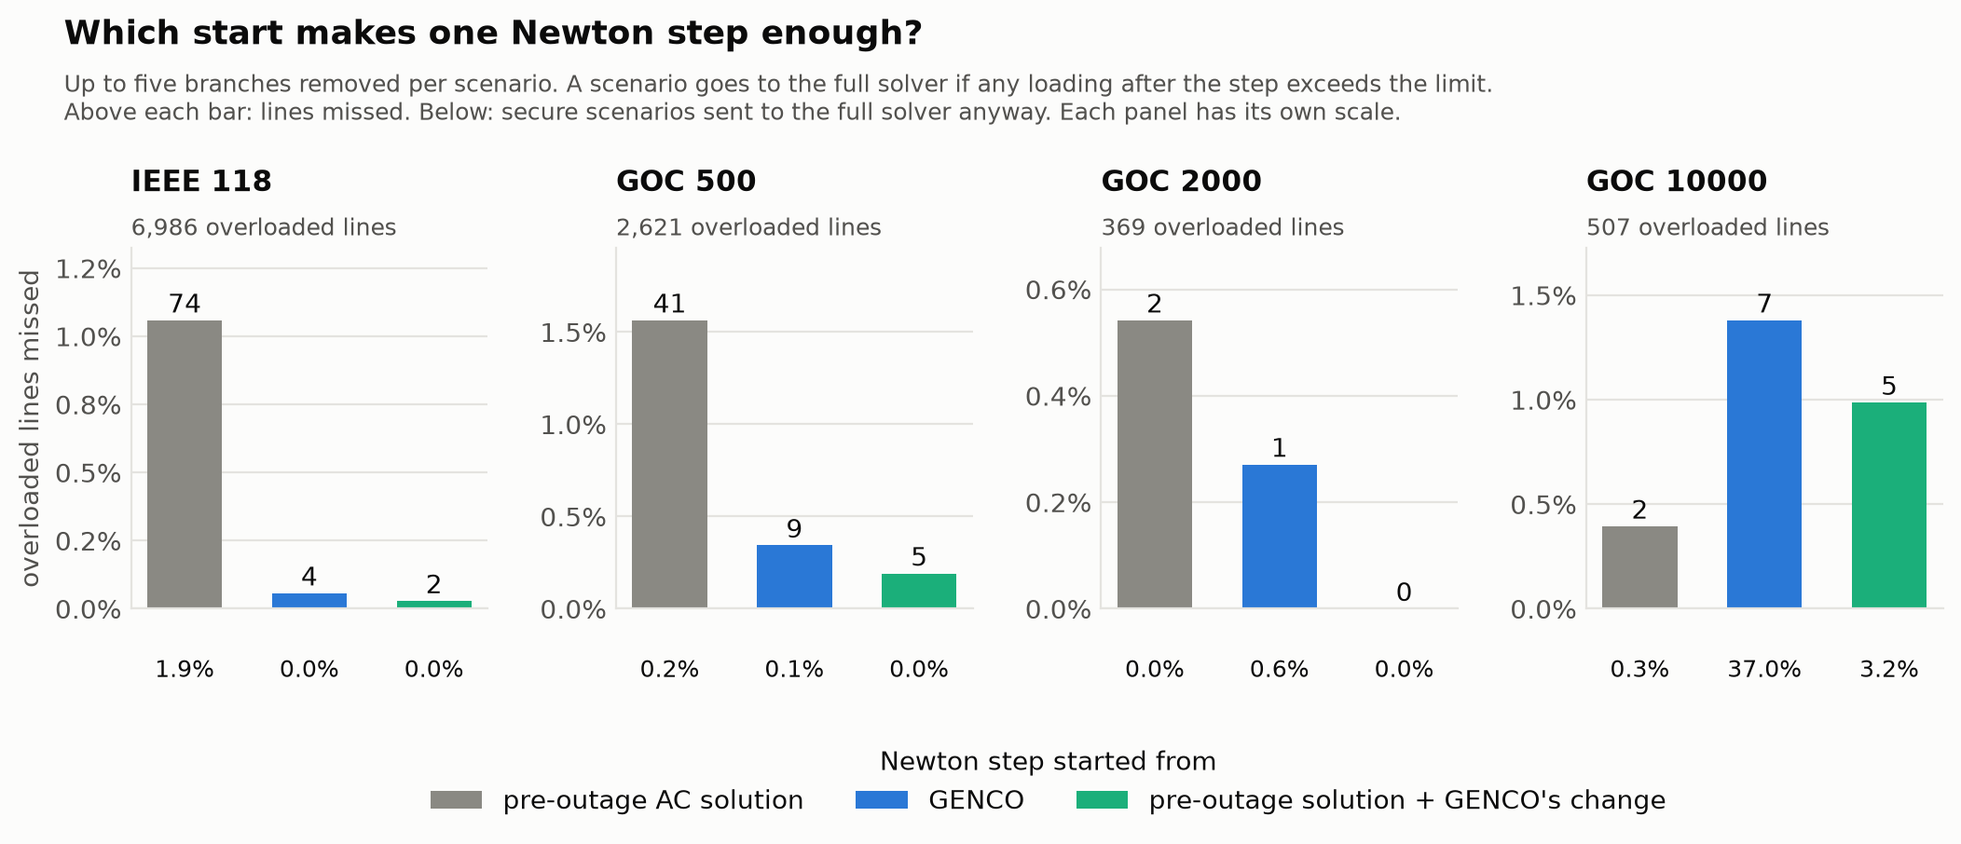
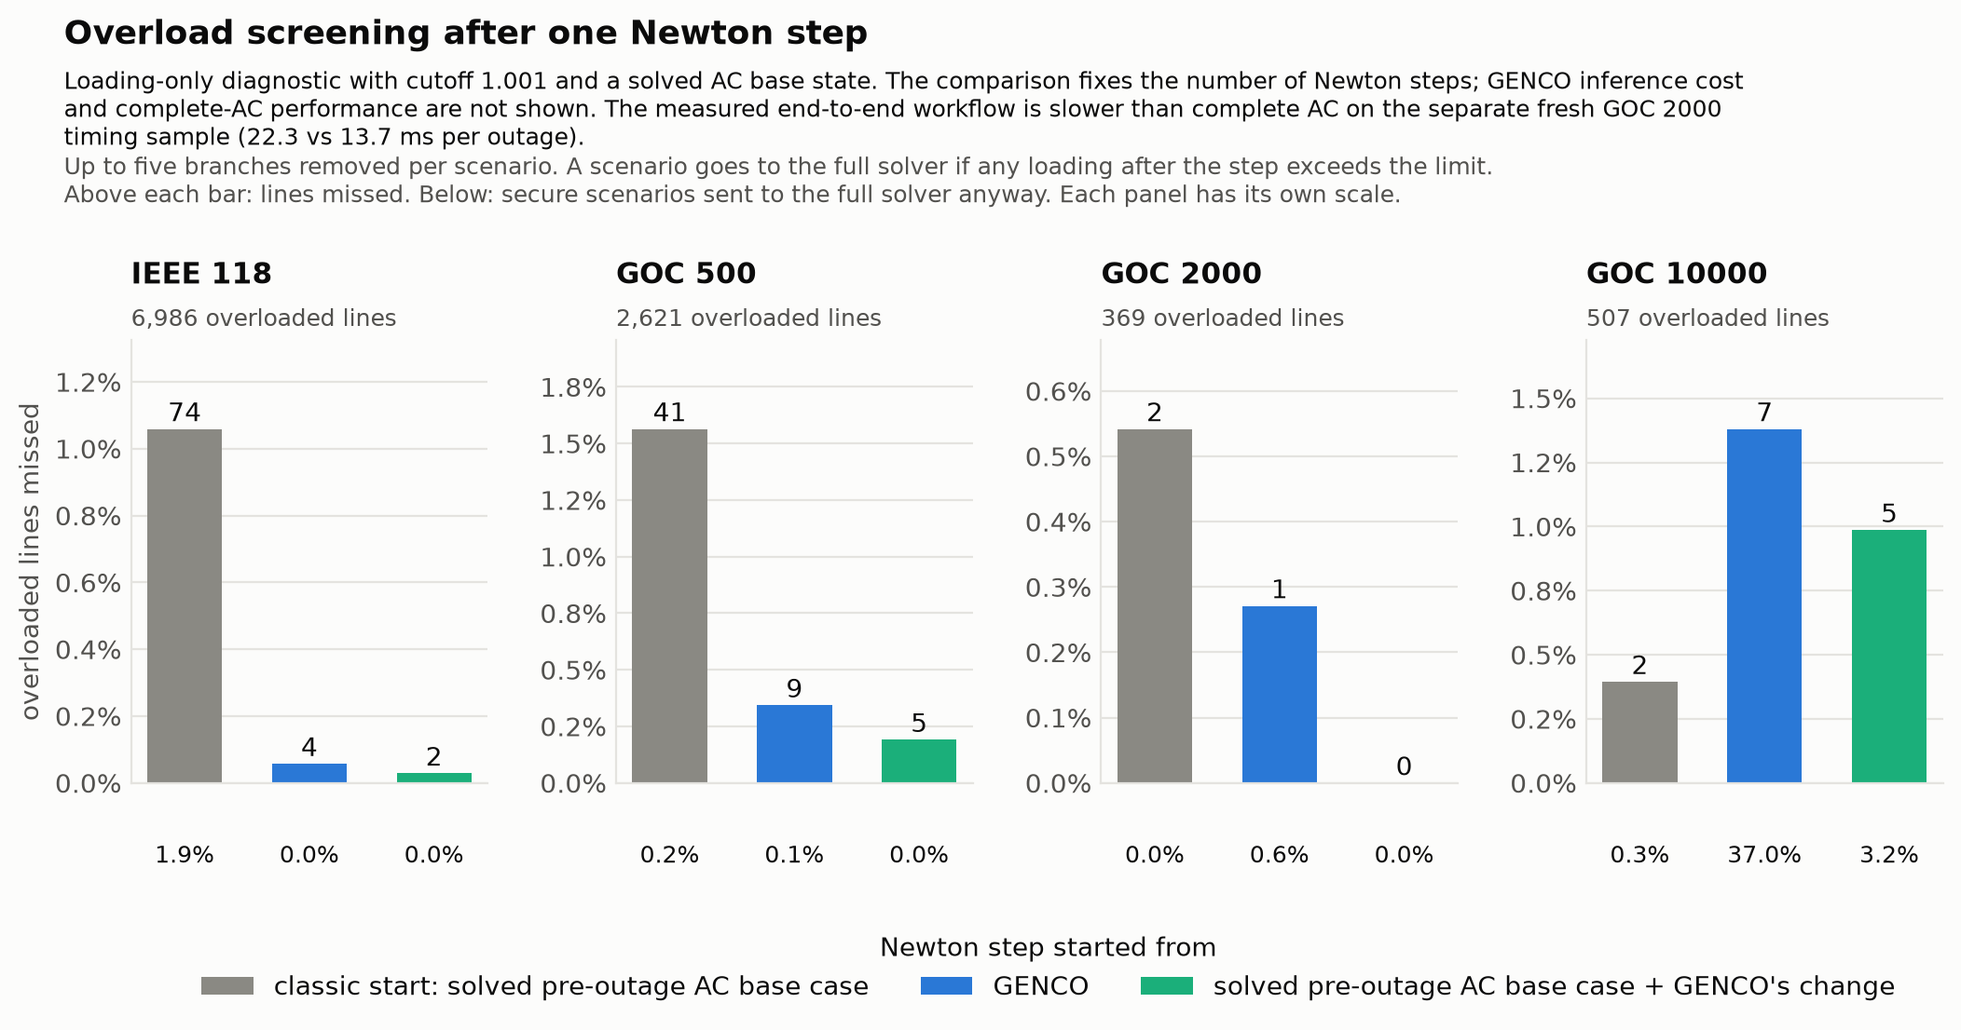
Framing corrections, verified Docker image and clean-clone replay
- README and post lead with the measured end-to-end comparison (complete AC 13.7, classical 8.4, anchored 22.3 ms per outage on the same 4,800 fresh outages) and treat the 2/5/0 vs 74/41/2 result as a loading-only initialization diagnostic; hero figure retitled and captioned; 10,000-bus claim narrowed to the checkpoints that tie
- Base-state assumption stated explicitly (solved AC base case; state-estimation error and staleness untested)
- Dockerfile builds (arm64, 50 min cold) and the workbench answers requests; gridtrust copied into the image; pip cache mount and https apt sources
- reproduce.sh default path replayed from a fresh clone of 4c2987b: fetch, checksums, tests pass; analysis and figures reproduce byte-identical from the saved tables; caveats recorded (Julia install on first import, embedding tables not bit-reproducible)

diff --git a/analysis/make_figures.py b/analysis/make_figures.py
@@ -384,9 +384,10 @@ def starts():
         for name, column in (("prev", "prev1"), ("hybrid", "hyb1")):
             d = d.merge(pd.read_parquet(folder / f"lines_{name}_tiny_seed0.parquet", columns=["state", "line", column]), on=["state", "line"])
         return d
-    series = {"prev1": ("pre-outage AC solution", DC), "genco1": ("GENCO", GENCO), "hyb1": ("pre-outage solution + GENCO's change", GENCO1)}
+    series = {"prev1": ("classic start: solved pre-outage AC base case", DC), "genco1": ("GENCO", GENCO),
+              "hyb1": ("solved pre-outage AC base case + GENCO's change", GENCO1)}
     grids = ["IEEE 118", "GOC 500", "GOC 2000", "GOC 10000"]
-    fig, axes = plt.subplots(1, 4, figsize=(12, 4.4))
+    fig, axes = plt.subplots(1, 4, figsize=(12, 5.4))
     for ax, grid in zip(axes, grids):
         d = frame(grid)
         n, real = d.state.nunique(), d.ac > OVERLOAD
@@ -410,10 +411,13 @@ def starts():
     axes[0].set_ylabel("overloaded lines missed")
     handles, labels = axes[0].get_legend_handles_labels()
     fig.legend(handles, labels, loc="lower center", ncol=3, bbox_to_anchor=(0.5, -0.02), title="Newton step started from")
-    fig.suptitle("Which start makes one Newton step enough?", x=0.06, ha="left", fontsize=13, fontweight="bold")
-    fig.text(0.06, 0.915, "Up to five branches removed per scenario. A scenario goes to the full solver if any loading after the step exceeds the limit.\n"
+    fig.suptitle("Overload screening after one Newton step", x=0.06, ha="left", fontsize=13, fontweight="bold")
+    fig.text(0.06, 0.93, "Loading-only diagnostic with cutoff 1.001 and a solved AC base state. The comparison fixes the number of Newton steps; GENCO inference cost\n"
+             "and complete-AC performance are not shown. The measured end-to-end workflow is slower than complete AC on the separate fresh GOC 2000\n"
+             "timing sample (22.3 vs 13.7 ms per outage).", color=INK, fontsize=9, va="top")
+    fig.text(0.06, 0.845, "Up to five branches removed per scenario. A scenario goes to the full solver if any loading after the step exceeds the limit.\n"
              "Above each bar: lines missed. Below: secure scenarios sent to the full solver anyway. Each panel has its own scale.", color=MUTED, fontsize=9, va="top")
-    fig.subplots_adjust(top=0.70, bottom=0.26, wspace=0.36, left=0.09)
+    fig.subplots_adjust(top=0.66, bottom=0.22, wspace=0.36, left=0.09)
     save(fig, "starts.png")
 
 

diff --git a/README.md b/README.md
@@ -2,16 +2,30 @@
 
 An entry for the [GENCO Challenge](https://gridfm.org/porto/challenge/): contingency screening with the anchored change start and one Newton step. The write-up is [`submission/POST.md`](submission/POST.md).
 
-Start Newton from the operator's pre-outage AC solution plus GENCO's predicted voltage *change* (the anchored change start), take one step, and the screen misses 2, 5 and 0 overloaded lines on IEEE 118, GOC 500 and GOC 2000 (of 6,986, 2,621 and 369) where the classic one-step screen from the pre-outage solution misses 74, 41 and 2, at 0.0% of secure scenarios flagged. A fresh operating-point pool with frozen policies (GOC 2000, 76,512 single-branch outages) confirms the referral cut, not a speed gain: 2.17% of outages referred to full AC against 27.94% for the classic screen, 1 against 2 critical outages missed, at a measured 22.3 ms per outage against 8.4 ms. At 10,000 buses it stops helping: every released checkpoint ties the classic screen on missed lines and flags 7 times more secure scenarios. The conformal band of the earlier rounds is now an appendix-level component, reported without a Newton step.
+GENCO's predicted voltage changes improve one-step Newton screening on several benchmark grids, but the measured implementation has no demonstrated end-to-end cost advantage. On a 4,800-outage sample from the fresh GOC 2000 pool, the anchored workflow took 22.3 ms per outage with GPU batch-16 inference, versus 8.4 ms for classical screening and 13.7 ms for complete AC. All three missed zero of the 69 critical cases in that timing sample; numerical nonconvergences were treated as flagged cases. These are laptop throughput measurements, not a demonstrated deployment advantage.
 
-![Which start makes one Newton step enough?](figures/starts.png)
+| Workflow (same 4,800 outages, 24 fresh GOC 2000 bases) | Measured ms per outage, first pass | Critical cases missed in this sample |
+|---|---:|---:|
+| Complete AC, Newton to convergence from the solved base case | 13.7 | 0 of 69 |
+| Classical screen, one Newton step from the solved base case | 8.4 | 0 of 69 |
+| Anchored change start, one Newton step, GENCO on the laptop GPU in batches of 16 (amortized throughput) | 22.3 | 0 of 69 |
+
+On the full fresh pool (76,512 single-branch outages, frozen policies) the anchored screen referred 2.17% of outages to full AC against 27.94% for the classical screen and missed 1 against 2 critical outages; the two screens keep their own residual thresholds from the old N-1 calibration, so the referral counts are not an equally tuned comparison. The pooled counts and the 4,800-sample timings are different scopes. At 10,000 buses no released checkpoint beats the classical screen: the classic start misses 2 lines, the anchored checkpoints miss 5, 3, 2 and 3; the best (Small seed 0) ties on misses while referring about seven times as many secure scenarios. The conformal band of the earlier rounds is an appendix-level component, reported without a Newton step.
+
+### Mechanism: better initialization for one Newton step
+
+In a separate loading-only diagnostic on scenarios with up to five branch outages, the anchored start missed 2, 5 and 0 overloaded line readings on IEEE 118, GOC 500 and GOC 2000, versus 74, 41 and 2 from the classical start after one Newton step. Both use a converged, matching AC base state. This demonstrates better one-step initialization on these datasets; it is not an equal-cost comparison or a safety guarantee.
+
+![Overload screening after one Newton step](figures/starts.png)
+
+*Loading-only diagnostic with cutoff 1.001 and a solved AC base state. The comparison fixes the number of Newton steps; GENCO inference cost and complete-AC performance are not shown. The measured end-to-end workflow is slower than complete AC on the separate fresh GOC 2000 timing sample.*
 
 ## What is here
 
 | Path | What it does |
 |---|---|
 | `engine.py` | One grid state (load level, line outages, optional redispatch) solved by AC power flow, DC power flow and GENCO. Used by everything else. |
-| `analysis/analysis_prev_control.py`, `analysis/analysis_hybrid_start.py` | The headline: one Newton step from the pre-outage AC solution (classic screen), and from that solution plus GENCO's predicted change (anchored change start). |
+| `analysis/analysis_prev_control.py`, `analysis/analysis_hybrid_start.py` | The headline: one Newton step from the solved pre-outage AC base case (classic screen), and from that base case plus GENCO's predicted change (anchored change start). |
 | `analysis/analysis_full_n1.py` | A complete N-1 analysis on GOC 2000 with the cost of six workflows, unit-cost timing and the measured end-to-end phase. |
 | `work/fresh/` | Fresh operating points, frozen policies: `policy_frozen.json` (the policy, frozen before generation), `POLICY_LOG.md` (freeze and amendments), `score_fresh_n1.py` and `score_fresh_hybrid.py` (scorers), `run_fresh.sh` with the chain scripts (`datagen_chain.sh`, `n1_2000_chain.sh`, `n1_extend_chain.sh`, `hybrid2000_chain.sh`, `chain10000.sh`), the results `results_n1.md` and `results_hybrid.md`, and a `README.md` with the recipe. |
 | `work/equiv/` | Equivalent-circuit robustness diagnostic: `SPEC.md` (pre-registered), `REPORT.md`, `transforms.py` (admittance-preserving rewrites), `run_equiv.py`, tests (`test_transforms.py`, `test_abort.py`), summaries in `results/*.csv`. |
@@ -40,7 +54,7 @@ Start Newton from the operator's pre-outage AC solution plus GENCO's predicted v
 | `workbench/whatif.py` | Every single-line outage on IEEE 118, GENCO against the AC solver, with the workbench's engine. |
 | `workbench/tools/record_workbench_gif.py` | Records `figures/workbench.gif` and the workbench screenshots from a running server (needs Chrome and Pillow). |
 | `work/workbench_check.py` | Checks of the workbench's staged verdict against the AC solution (`work/workbench_check.log`). |
-| `Dockerfile`, `workbench/docker/` | Container for the workbench (written, not yet built). |
+| `Dockerfile`, `workbench/docker/` | Container for the workbench, laid out for a Hugging Face Docker Space (port 7860, non-root). Built and smoke-tested on 2026-10-11 (Apple Silicon, linux/arm64): `docker build --platform linux/arm64 -t genco-workbench:dev .` (50 min with a cold pip cache, nearly all of it wheel downloads; 4.81 GB on disk, 1.07 GB compressed), then `docker run --rm -p 7860:7860 genco-workbench:dev` and open http://localhost:7860. The build downloads the IEEE 118 Base checkpoint (Hugging Face, no token needed) and the bus layout, checks their sha256, precompiles the Julia environment and solves one state before the image is accepted. |
 | `run_pretrained.py` | Fetch a released checkpoint and run it on one data shard. |
 | `work/**/*.log`, `work/*.txt`, `work/**/*.csv`, `work/**/*.md` | The printed reports and small result tables behind the numbers in the write-up. |
 
@@ -61,7 +75,7 @@ RUN_LONG=1 ./reproduce.sh all   # also sweeps, controls, finetune before analysi
 
 `analysis` and `figures` need the saved result tables (`work/**/*.parquet`, `*.csv`, `*.log`) that are **not in the repository**; without them these two stages fail. The long stages `sweeps`, `controls` and `finetune` rebuild those tables from the fetched inputs in about two days on a laptop (`finetune` needs AC power and `caffeinate`). No results archive is available yet.
 
-Replay status: the default path was last replayed in a fresh copy of the repository in round 2 (2026-10-03). Later additions were syntax- and import-checked in a simulated clean checkout on 2026-10-11 (74 files compile, 49 tests pass, 15 skip for missing data); no full clean replay of the current script has been done.
+Replay status: the default path was replayed from a fresh clone of commit 4c2987b on 2026-10-11 (macOS 27.0.1, Apple silicon, uv 0.12.7, Python 3.12.14). `setup`, `fetch` (53 manifest entries ok, the Texas case absent as documented), `checksums` and `tests` (64 collected; 49 pass / 15 skip with the fetched inputs only, 54 / 10 with the saved tables) ran unchanged from the clone. `analysis` (985 s) and `figures` (12 s) ran to completion once the saved result tables and the GOC 2000 test pool `work/goc2000/data/case2000_goc/raw/` (read by `analysis_full_n1.py report`) were copied in, and all 17 figures came back byte-identical to the committed ones; `work/fresh/results_n1.md` and `results_hybrid.md` were regenerated identically by their scorers. The first `import engine` inside `analysis` installs Julia 1.13.1 through juliacall (200 MB download, about 5 min); if that download fails, re-run the stage. The `analysis_embedding.py` tables are not bit-reproducible (unseeded PCA solver).
 
 ## Data
 
@@ -73,7 +87,7 @@ Replay status: the default path was last replayed in a fresh copy of the reposit
 
 ## Limits
 
-No speed claim is made: on a laptop, with inference counted, every GENCO workflow is slower than the classic one-step screen. Fine-tuning was done only at laptop scale (at most two hours per grid) and showed no gain. The savings reported are AC solves and Newton iterations. See "Limits of this work" in the write-up.
+No speed claim is made: on a laptop, with inference counted, every GENCO workflow is slower than the classic one-step screen, and the anchored workflow is slower than complete AC on the measured fresh GOC 2000 sample (22.3 against 13.7 ms per outage). Complete AC evaluates every case; that evaluation cost is not an overload false-alarm rate. We assume a converged AC base state consistent with the injections, controls and network model used for the contingency; sensitivity to state-estimation error, stale operating points and topology uncertainty was not tested. Fine-tuning was done only at laptop scale (at most two hours per grid) and showed no gain. The savings reported are AC solves and Newton iterations. See "Limits of this work" in the write-up.
 
 ## Licences
 

diff --git a/submission/POST.md b/submission/POST.md
@@ -1,8 +1,20 @@
 # Let GENCO predict the change, not the state: contingency screening with the anchored change start and one Newton step
 
-**In one sentence:** start Newton from the operator's pre-outage AC solution plus GENCO's predicted voltage *change*, take one step, and the screen misses 2, 5 and 0 overloaded lines on IEEE 118, GOC 500 and GOC 2000 (of 6,986, 2,621 and 369) where the classic one-step screen misses 74, 41 and 2, at 0.0% of secure scenarios flagged. It saves Newton iterations and AC solves, not seconds, and it stops helping at 10,000 buses.
+**In one paragraph:** GENCO's predicted voltage changes improve one-step Newton screening on several benchmark grids, but the measured implementation has no demonstrated end-to-end cost advantage. On a 4,800-outage sample from the fresh GOC 2000 pool, the anchored workflow took 22.3 ms per outage with GPU batch-16 inference, versus 8.4 ms for classical screening and 13.7 ms for complete AC. All three missed zero of the 69 critical cases in that timing sample; numerical nonconvergences were treated as flagged cases. These are laptop throughput measurements, not a demonstrated deployment advantage.
 
-![Which start makes one Newton step enough?](figures/starts.png)
+| Workflow (same 4,800 outages, 24 fresh GOC 2000 bases) | Measured ms per outage, first pass | Critical cases missed in this sample |
+|---|---:|---:|
+| Complete AC, Newton to convergence from the solved base case | 13.7 | 0 of 69 |
+| Classical screen, one Newton step from the solved base case | 8.4 | 0 of 69 |
+| Anchored change start, one Newton step, GENCO on the laptop GPU in batches of 16 (amortized throughput) | 22.3 | 0 of 69 |
+
+### Mechanism: better initialization for one Newton step
+
+In a separate loading-only diagnostic on scenarios with up to five branch outages, the anchored start (the solved pre-outage AC base case plus GENCO's predicted voltage *change*, then one Newton step) missed 2, 5 and 0 overloaded line readings on IEEE 118, GOC 500 and GOC 2000 (of 6,986, 2,621 and 369), versus 74, 41 and 2 from the classical start after one Newton step, at 0.0% of secure scenarios flagged. Both use a converged, matching AC base state. This demonstrates better one-step initialization on these datasets; it is not an equal-cost comparison or a safety guarantee, and it stops helping at 10,000 buses.
+
+![Overload screening after one Newton step](figures/starts.png)
+
+*Loading-only diagnostic with cutoff 1.001 and a solved AC base state. The comparison fixes the number of Newton steps; GENCO inference cost and complete-AC performance are not shown. The measured end-to-end workflow is slower than complete AC on the separate fresh GOC 2000 timing sample.*
 
 ## In one table
 
@@ -14,7 +26,7 @@ Scored against the full AC solution, released checkpoints. "Classic" is one Newt
 | GOC 2000 N-1: sent to AC / critical outages missed | 29.6% / 5 of 1,451 | **2.7%** / 14 of 1,451 | Far fewer AC calls, not at equal safety |
 | GOC 2000 N-1: estimated seconds per 1,000 outages | **6.5** | 19.4 | No wall-clock gain |
 | GOC 10000 (Small): lines missed / secure scenarios flagged | **2 / 0.3%** | 2 / 2.1% | Ties on misses, 7 times the false flags: stops helping |
-| Fresh pool, 76,512 outages, frozen policies: sent to AC / critical missed; measured ms per outage on a 4,800-outage sample | 27.94% / 2 of 1,510; 8.4 | **2.17%** / 1 of 1,510; 22.3 | Confirms the referral cut, not a speed gain |
+| Fresh pool, 76,512 outages, frozen policies: sent to AC / critical missed; measured ms per outage on a 4,800-outage sample (complete AC: 13.7) | 27.94% / 2 of 1,510; 8.4 | **2.17%** / 1 of 1,510; 22.3 | Confirms the referral cut; slower than complete AC |
 
 ## The idea
 
@@ -24,9 +36,9 @@ Contingency screening asks one question for thousands of grid states: *is any li
 
 - **GENCO alone is not safe enough.** On the example's setup it lets through overloads up to 139.6%.
 - **One Newton step from GENCO's voltages fixes that.** 9 of 2,621 overloaded lines missed on GOC 500, 12.5% of scenarios sent to the full solver, exactly the share that really has an overload. From a flat start or DC angles the same step is useless (97% and 88% flagged).
-- **But the right baseline is the pre-outage solution.** An operator always has it. One step from it is classic single-iteration screening; it ties GENCO's start at 2,000 buses and beats it at 10,000.
+- **But the right baseline is the pre-outage solution.** For contingency analysis from a solved AC base case, the appropriate baseline is one Newton step from that same base case. That is classic single-iteration screening; it ties GENCO's start at 2,000 buses and beats it at 10,000.
 - **GENCO's errors are systematic.** On Texas 2000, 97% of the errors above 3 points occur at one load level, on the same lines in every state.
-- **So subtract them.** Start = pre-outage AC voltages + [GENCO(after outage) − GENCO(before outage)]. The bias cancels; what survives is GENCO's estimate of the change. Two inferences (the pre-outage one is shared by all outages of a base case), one Newton step, no training.
+- **So subtract them.** Start = pre-outage AC voltages + [GENCO(after outage) − GENCO(before outage)]. The bias cancels; what survives is GENCO's estimate of the change, plus any error in the base state itself. Two inferences (the pre-outage one is shared by all outages of a base case), one Newton step, no training.
 
 ![GENCO's error before and after the outage](figures/bias_cancels.png)
 
@@ -48,7 +60,7 @@ Scenarios remove up to five branches at random (gridfm-datakit). A scenario goes
 
 ## What it costs and what it is worth
 
-GOC 2000, 24 base cases, every non-islanding single-branch outage: 76,512 outages. Mismatch thresholds are set on 6 base cases; the other 18 are scored (57,384 outages, 1,451 critical). Seconds are estimates from unit costs measured on this laptop: Newton iterations at 3.9 ms, GENCO inference batched on the GPU at 12.6 ms per state plus 2.5 ms to build its input graph.
+GOC 2000, 24 base cases, every non-islanding single-branch outage: 76,512 outages. Mismatch thresholds are set on 6 base cases; the other 18 are scored (57,384 outages, 1,451 critical). Seconds are estimates from unit costs measured on this laptop: Newton iterations at 3.9 ms, GENCO inference batched on the GPU at 12.6 ms per state plus 2.5 ms to build its input graph. The shared base-case solve and the pre-outage GENCO inference are computed once per base case and excluded from the per-outage figures for every workflow alike.
 
 ![A complete N-1 analysis](figures/fulln1.png)
 
@@ -82,12 +94,13 @@ Two further frozen variants, a shrunk predicted change and a mismatch gate that 
 
 ## Where it stops working
 
-- **10,000 buses, every released checkpoint.** The bigger model helps on every diagnostic at about 2.2 times the Tiny inference, but ties the pre-outage start on missed lines while flagging 7 times more secure scenarios. No checkpoint beats the classic screen; table in the appendix.
+- **10,000 buses, every released checkpoint.** No released checkpoint beats the classic screen: the classic start misses 2 lines, the anchored checkpoints miss 5, 3, 2 and 3 (Tiny seed 0, Tiny seed 1, Small seed 0, Small seed 1); the best, Small seed 0, ties on misses while referring about 7 times as many secure scenarios (2.1% against 0.3%). The bigger model improves the diagnostics (no-change error removed 35 to 39% against 28 to 31%) at about 2.2 times the Tiny inference, not the screening outcome. Table in the appendix.
 - **Fine-tuning does not change it.** On GOC 10000 the anchored change start goes from 5 to 4 missed at 3.2% flagged. On GOC 500 the raw error falls from 0.33 to 0.23 points, yet after one Newton step nothing changes (5 → 5).
 - **Reactive limits keep the ranking, not "almost nothing missed".** With PV-to-PQ switching in the reference solution, lines missed on GOC 500 are 23 (anchored change), 28 (GENCO) and 54 (pre-outage) of 2,570. A finding we withdraw: GENCO's 98.8% detection of voltage-limit violations on IEEE 118 becomes 52–70% against the limit-enforced truth.
 
 ## Limits of this work
 
+- **We assume a converged AC base state** consistent with the injections, controls and network model used for the contingency. Sensitivity to state-estimation error, stale operating points and topology uncertainty was not tested.
 - **No speed claim.** The savings we report are Newton iterations and AC solves.
 - **Fine-tuning was small**: at most two hours per grid on a laptop, Tiny only.
 - **The Newton step uses the true network model**: it measures GENCO plus physics.
@@ -153,7 +166,7 @@ The two 10,000-bus rows of the main-result table, scored as above:
 | Anchored change, Small seed 0 | 2 / 2.1% | 0 / 0.4% | 35% | 79.2% | 395 |
 | Anchored change, Small seed 1 | 3 / 1.1% | 0 / 0.3% | 39% | 81.4% | 402 |
 
-The bigger model helps on every diagnostic at about 2.2 times the Tiny inference, but ties the pre-outage start on missed lines while flagging 7 times more secure scenarios. Seeds agree on the verdict; one or two lines between checkpoints is seed noise.
+Only Small seed 0 ties the pre-outage start on missed lines (2 against 2) and does so while referring about seven times as many secure scenarios (2.1% against 0.3%); Small seed 1 misses 3 at 1.1%, Tiny seed 0 and seed 1 miss 5 and 3. The bigger model improves the diagnostics (no-change error removed 35 to 39% against 28 to 31%, sign agreement 79 to 81% against 75 to 77%) at about 2.2 times the Tiny inference, without beating the classic screen. Seeds agree on the verdict; one or two lines between checkpoints is seed noise.
 
 ### Fine-tuning
 
